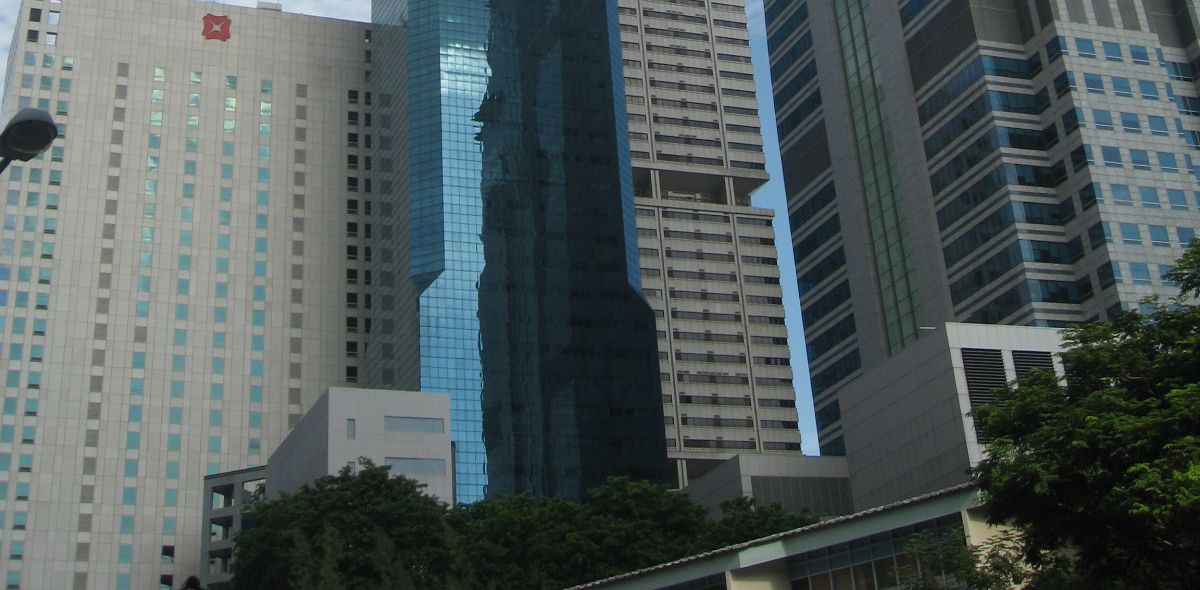
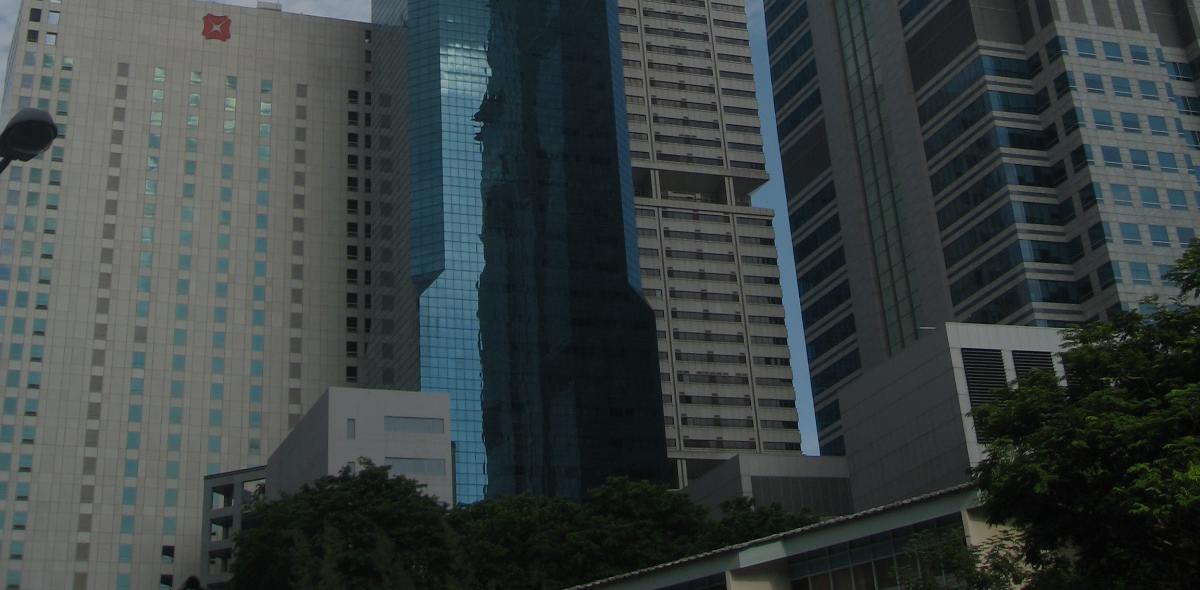
Main page changes testing

diff --git a/app/assets/stylesheets/application.scss b/app/assets/stylesheets/application.scss
@@ -7,6 +7,7 @@
 $subtitle-line-height: 1.5;
 $family-sans-serif: "Open Sans", Helvetica, Arial, sans-serif;
 $family-monospace: "Source Code Pro", monospace;
+$family-primary: $family-sans-serif;
 
 // Disable the widescreen breakpoint
 $widescreen-enabled: false;
@@ -37,9 +38,17 @@ $column-gap: 0.75rem;
 
 $is-narrow: 300px;
 
+.dbsbackground{
+  background-image: url("DBS_Towers,_SIA_Building_and_Capital_Tower.jpg");
+  background-repeat: no-repeat;
+  background-size: cover;
+  background-attachment: fixed;
+}
+
 .dbsheader {
-  background-color: #141414;
+  background-color: rgb(255, 255, 255);
   box-shadow: 5px 10px 10px rgb(0, 0, 0);
+  max-height: 90px;
 }
 
 .gradientheader {
@@ -47,17 +56,18 @@ $is-narrow: 300px;
 }
 
 .gradienttopservices {
-  background-image: linear-gradient(rgb(204, 19, 19), rgb(128, 26, 26));
+  background-image: linear-gradient(rgb(151, 0, 0), rgb(221, 67, 67));
 }
 
 .squarebuttons-topservice{
-  // border: 1px outset blue; //display size of button
-  background-color: rgba(255, 255, 255, 0.101);
+  border: 2px outset rgb(200, 200, 200);
+  background-color: rgb(255, 255, 255);
   border-radius: 5%;
-  box-shadow: 0px 3px 3px rgba(255, 129, 129, 0.312);
 
-  height:125px;
+
+  height:142px;
   width: 23%;
+  max-width: 150px;
 
   margin-left: 1%;
   margin-right: 1%;
@@ -66,8 +76,21 @@ $is-narrow: 300px;
   cursor:pointer;
 }
 
+.squarebuttons-categories{
+  // border: 1px outset blue; //display size of button
+  background-color: rgba(255, 255, 255, 0.804);
+  border-radius: 5%;
+
+  margin-left: 0%;
+  margin-right:0%;
+  margin-bottom: 1%;
+  margin-top: 1%;
+
+  cursor:pointer;
+}
+
 .gradientbody {
-  background: linear-gradient(rgb(24, 24, 24), rgb(45, 45, 45));
+  background: linear-gradient(rgb(255, 255, 255), rgb(211, 211, 211));
   background-size:100% 100%;
 }
 
@@ -76,8 +99,8 @@ $is-narrow: 300px;
 }
 
 .capsize{
-  max-width: 64px;
-  max-height: 64px;
+  max-width: 56px;
+  max-height: 56px;
 }
 
 .alignitemscenter{
@@ -112,9 +135,9 @@ $is-narrow: 300px;
   }
 
   .blurry-text {
-    font-weight: 600;
+    font-weight: 525;
     color: transparent;
-    text-shadow: 0 0 0.7px rgba(255, 255, 255, 1);
+    text-shadow: 0 0 0.7px rgb(55, 55, 55);
  }
 
 
